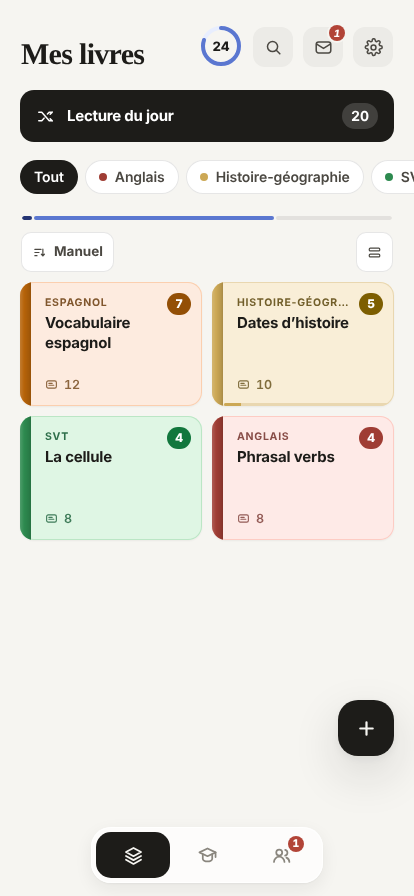
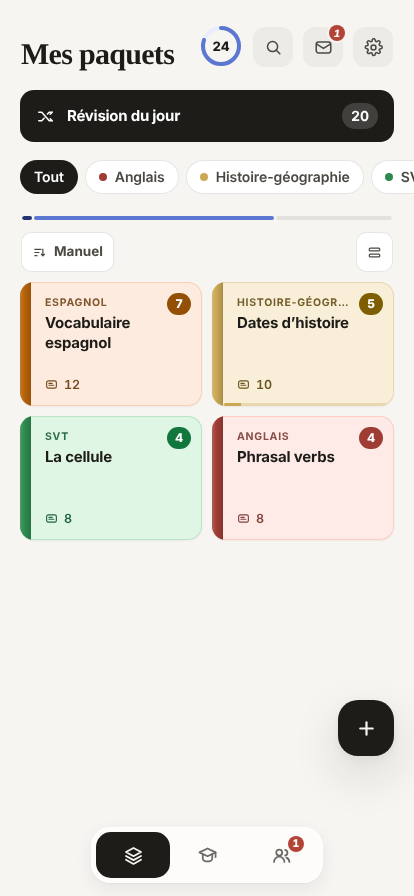
Le site pousse la vente : l'alternative à Anki et Quizlet ; affiches et images de partage refaites
La revue visuelle du site a trouvé deux choses fausses sur la vitrine. Les
affiches (les écrans de l'app montrés dans le héros et dans Campus) dataient
du 29 octobre : elles affichaient encore « Mes livres », le vocabulaire
retiré le 7 novembre. Et l'image de partage de /tarifs annonçait « dès
4,17 € par mois, Campus de 5 à 2 € HT par élève » : l'ancien prix, et un
tarif d'établissement que le site ne donne plus. L'outil qui les
photographie cliquait la barre par ses libellés (« Livres », « Mes
classes ») : il ne tournait plus depuis le changement de vocabulaire. Il
suit désormais les repères data-r, et tout est refait depuis la démo
(affiches, captures du manifeste, image de partage, images des pages).

Le positionnement, demandé : « L'alternative à Anki et Quizlet » en
troisième pastille du héros, dans la description de l'accueil, le titre, la
description et le chapeau du comparatif et la FAQ. En faits vérifiables —
le moteur FSRS qu'Anki utilise aussi, sans un réglage ; la simplicité de
Quizlet, sans publicité ; l'IA en plus —, jamais « n° 1 » ni « le
meilleur » dit comme un fait : une publicité comparative doit être
objective.

Preuve : npm run check (982 tests, budgets des pages tenus), les images
relues une à une.

Claude-Session: https://claude.ai/code/session_012dNsVM2soScftu5qZeP1Pj

diff --git a/tools/affiches.js b/tools/affiches.js
@@ -21,7 +21,7 @@ const chrome = process.env.PW_CHROMIUM || '/opt/pw-browsers/chromium';
 const AFFICHES = [
   { nom: 'pc', role: 'eleve', fenetre: { width: 1152, height: 720 }, densite: 1.25,
     async chemin(p) {
-      await p.locator('aside, nav, .rail').getByText('Livres', { exact: true }).first().click();
+      await p.locator('#rail [data-r="home"]').first().click();
       await p.getByText('La cellule', { exact: true }).first().click();
       await p.locator('[data-act="study"]:visible').first().click();
       await p.waitForTimeout(900);
@@ -31,7 +31,7 @@ const AFFICHES = [
     async chemin(p) { await p.click('[data-act="tab-home"]'); } },
   { nom: 'eleve', role: 'eleve', fenetre: { width: 1280, height: 800 }, densite: 1.125,
     async chemin(p) {
-      await p.locator('aside, nav, .rail').getByText('Mes classes', { exact: true }).first().click();
+      await p.locator('#rail [data-r="classes"]').first().click();
       await p.locator('[data-el="classe"]:visible').first().click();   // sa classe : devoirs, professeurs, camarades
       await p.waitForTimeout(600);
     } },
@@ -93,7 +93,7 @@ async function webp(page, png, qualite, echelle = 1) {
    La taille en pixels doit être celle que déclare le manifeste. */
 const CAPTURES = [
   { nom: 'wide', role: 'eleve', fenetre: { width: 1440, height: 900 }, densite: 1,
-    async chemin(p) { await p.locator('aside, nav, .rail').getByText('Livres', { exact: true }).first().click(); } },
+    async chemin(p) { await p.locator('#rail [data-r="home"]').first().click(); } },
   { nom: 'narrow', role: 'eleve', fenetre: { width: 414, height: 896 }, densite: 1, mobile: true,
     async chemin(p) { await p.click('[data-act="tab-home"]'); } }
 ];
@@ -105,12 +105,12 @@ const CAPTURES = [
    affiches déjà faites : rien à photographier, pas besoin de serveur).
      node tools/affiches.js pages */
 const OG_PAGES = {
-  'flashcards-ia': { sujet: 'Flashcards avec l’IA', titre: 'L’IA fait tes <em>flashcards.</em>', ligne: 'Un cours, une photo, un PDF :<br>un livre de flashcards en quelques secondes.', pc: 'pc', tel: 'mobile' },
-  'repetition-espacee': { sujet: 'Le guide', titre: 'La répétition <em>espacée.</em>', ligne: 'Revoir chaque page juste avant<br>de l’oublier, et la garder des mois.', courbe: true },
+  'flashcards-ia': { sujet: 'Flashcards avec l’IA', titre: 'L’IA fait tes <em>flashcards.</em>', ligne: 'Un cours, une photo, un PDF :<br>un paquet de flashcards en quelques secondes.', pc: 'pc', tel: 'mobile' },
+  'repetition-espacee': { sujet: 'Le guide', titre: 'La répétition <em>espacée.</em>', ligne: 'Revoir chaque carte juste avant<br>de l’oublier, et la garder des mois.', courbe: true },
   etablissements: { sujet: 'Mirandola Campus', titre: 'Tout l’établissement, <em>en deux codes.</em>', ligne: 'Collège, lycée, prépa :<br>ouvert en dix minutes.', pc: 'prof', tel: 'eleve-mobile' },
   professeurs: { sujet: 'Pour les professeurs', titre: 'Vos élèves révisent. <em>Vous le voyez.</em>', ligne: 'Devoirs suivis, ce qui bloque,<br>défis en direct au tableau.', pc: 'prof', tel: 'prof-mobile' },
-  tarifs: { sujet: 'Tarifs', titre: 'Gratuit pour <em>réviser.</em>', ligne: 'Mirandola+ dès 4,17 € par mois.<br>Campus de 5 à 2 € HT par élève et par an.', pc: 'pc', tel: 'mobile' },
-  'anki-quizlet': { sujet: 'Le comparatif', titre: 'Anki, Quizlet <em>ou Mirandola ?</em>', ligne: 'Trois apps de flashcards,<br>et comment passer de l’une à l’autre.', pc: 'pc', tel: 'mobile' },
+  tarifs: { sujet: 'Tarifs', titre: 'Gratuit pour <em>réviser.</em>', ligne: 'Mirandola+ dès 3,75 € par mois, 7 jours gratuits.<br>Mirandola Campus sur devis.', pc: 'pc', tel: 'mobile' },
+  'anki-quizlet': { sujet: 'Le comparatif', titre: 'L’alternative à <em>Anki et Quizlet.</em>', ligne: 'Le moteur d’Anki sans réglage,<br>la simplicité de Quizlet, l’IA en plus.', pc: 'pc', tel: 'mobile' },
   'a-propos': { sujet: 'Le nom', titre: 'Pourquoi <em>Mirandola ?</em>', ligne: 'D’après Pic de la Mirandole,<br>l’érudit à la mémoire prodigieuse.', logo: true },
   academie: { sujet: 'Mirandola Academy', titre: 'Tout Mirandola, en <em>vidéos courtes.</em>', ligne: 'Élève, professeur, référent :<br>un tuto par geste, téléphone et ordinateur.', pc: 'referent', tel: 'eleve-mobile' },
   moteur: { sujet: 'Memory Engine · FSRS-6', titre: 'Le moteur, <em>formule par formule.</em>', ligne: 'Trois variables, vingt et un paramètres,<br>une courbe. Sans rien arrondir.', moteur: true }
@@ -269,7 +269,7 @@ await og.setContent(`<!doctype html><html lang="fr"><head><meta charset="utf-8">
   <div class="g"><div class="m">${logo}<span>Mirandola</span></div>
     <div class="p"><i></i>Testé et validé en prépa · boosté à l’IA</div>
     <h1>Révise moins.<br>Retiens <em>tout.</em></h1>
-    <p class="s">L’IA fait de ton cours un livre<br>de flashcards. Mirandola te repose chaque<br>page juste avant que tu l’oublies.</p></div>
+    <p class="s">L’IA fait de ton cours un paquet<br>de flashcards. Mirandola te repose chaque<br>carte juste avant que tu l’oublies.</p></div>
   <div class="pc"><img src="${dataUri(SORTIE + 'pc.webp', 'image/webp')}"></div><div class="socle"></div>
   <div class="tel"><img src="${dataUri(SORTIE + 'mobile.webp', 'image/webp')}"><i></i></div>
   <div class="f"><small>Histoire</small><b>14 juillet 1789</b></div>

diff --git a/index.html b/index.html
@@ -26,7 +26,7 @@
 </script>
 <meta name="viewport" content="width=device-width,initial-scale=1,viewport-fit=cover">
 <title>Mirandola : flashcards IA et répétition espacée pour réviser</title>
-<meta name="description" content="L’IA fait de ton cours des flashcards, Mirandola te les repose juste avant l’oubli, avec l’algorithme FSRS. Gratuit, hors ligne, pour élèves, profs et lycées.">
+<meta name="description" content="Flashcards IA et répétition espacée : le moteur d’Anki sans réglage, la simplicité de Quizlet, l’IA en plus. Gratuit, sans publicité, même hors ligne.">
 <link rel="canonical" href="https://mirandola.fr/">
 <link rel="alternate" hreflang="fr" href="https://mirandola.fr/">
 <link rel="alternate" hreflang="x-default" href="https://mirandola.fr/">
@@ -242,6 +242,7 @@
       <ul class="pastilles">
         <li class="pastille"><svg class="ic" aria-hidden="true"><use href="#i-ecole"/></svg>Testé et validé en prépa</li>
         <li class="pastille pastille-ia"><svg class="ic" aria-hidden="true"><use href="#i-etincelle"/></svg><span>Boosté à l’IA</span></li>
+        <li class="pastille"><svg class="ic" aria-hidden="true"><use href="#i-fleche"/></svg><a href="/anki-quizlet">L’alternative à Anki et Quizlet</a></li>
       </ul>
       <h1 id="titre" class="titre-heros"><span class="mot">Révise</span> <span class="mot">moins.</span> <span class="mot">Retiens</span> <span class="mot">tout.</span></h1>
       <p class="chapeau">L’IA fait de ton cours un paquet de flashcards. Mirandola te repose chaque carte juste avant que tu l’oublies.</p>
@@ -493,7 +494,7 @@
       <details class="rv"><summary>Ça marche sans connexion&#8239;?</summary><p>Oui. Tu révises dans le métro ou en avion, et tout se synchronise dès que le réseau revient.</p></details>
       <details class="rv"><summary>Je peux reprendre mes anciennes flashcards&#8239;?</summary><p>Oui. Colle-les ou importe le fichier, un CSV marche aussi. Mirandola en fait un paquet en quelques secondes.</p></details>
       <details class="rv"><summary>Comment équiper mon établissement&#8239;?</summary><p>Avec Mirandola Campus, ouvert en dix minutes à tous vos élèves et professeurs. Demandez une démo&#8239;: 30 jours gratuits pour 60 élèves, sans engagement. Ensuite, un tarif fait pour votre établissement, qui baisse par élève quand il grandit&#8239;: votre devis accompagne la démo.</p></details>
-      <details class="rv"><summary>Mirandola ou Anki, Quizlet&#8239;?</summary><p>Mirandola fait tourner FSRS, l’algorithme libre de répétition espacée qu’Anki utilise aussi, avec les mêmes paramètres par défaut et sans un seul réglage à faire. Comme Quizlet, tout se fait au doigt, sur téléphone et sur ordinateur. Tes paquets Anki et tes listes Quizlet s’importent en texte&#8239;: colle-les, c’est un paquet. Le détail est dans <a href="/anki-quizlet">notre comparatif</a>.</p></details>
+      <details class="rv"><summary>Mirandola ou Anki, Quizlet&#8239;?</summary><p>Mirandola réunit le meilleur des deux, et y ajoute l’IA. Le moteur d’Anki&#8239;: FSRS, l’algorithme libre de répétition espacée qu’Anki utilise aussi, avec les mêmes paramètres par défaut, sans un seul réglage à faire. La simplicité de Quizlet&#8239;: tout se fait au doigt, sur téléphone et sur ordinateur, sans publicité. Tes paquets Anki et tes listes Quizlet s’importent en texte&#8239;: colle-les, c’est un paquet. Le détail est dans <a href="/anki-quizlet">notre comparatif</a>.</p></details>
       <details class="rv"><summary>Puis-je résilier quand je veux&#8239;?</summary><p>Oui, en un geste depuis l’app&#8239;: Mirandola+, puis «&nbsp;Résilier l’abonnement&nbsp;». Au mois, rien ne t’engage&#8239;: Mirandola+ reste ouvert jusqu’à la fin du mois payé. À l’année, payée d’avance, il reste ouvert jusqu’au bout de l’année, puis ne se renouvelle pas.</p></details>
       <details class="rv"><summary>Je donne des cours particuliers&#8239;: combien ça coûte&#8239;?</summary><p>Ton espace professeur est gratuit&#8239;: ton code, tes classes, les devoirs suivis et les défis en direct, pour toi et tes élèves. Mirandola+ pour toi, au prix d’un élève, t’ouvre l’IA sans compter pour préparer tes paquets. Pour que tes élèves aient aussi Mirandola+&#8239;: un tarif selon leur nombre, sur devis.</p></details>
       <details class="rv"><summary>Où vont mes données&#8239;?</summary><p>Elles sont hébergées dans l’Union européenne. Mirandola n’affiche aucune publicité et n’utilise aucun traceur.</p></details>

diff --git a/src/site/pages.js b/src/site/pages.js
@@ -28,7 +28,7 @@ export const PAGES = [
   {
     chemin: '/', fichier: 'index.html', nom: 'Accueil',
     titre: 'Mirandola : flashcards IA et répétition espacée pour réviser',
-    description: 'L’IA fait de ton cours des flashcards, Mirandola te les repose juste avant l’oubli, avec l’algorithme FSRS. Gratuit, hors ligne, pour élèves, profs et lycées.',
+    description: 'Flashcards IA et répétition espacée : le moteur d’Anki sans réglage, la simplicité de Quizlet, l’IA en plus. Gratuit, sans publicité, même hors ligne.',
     maj: '2026-11-05', image: '/site/og.jpg',
     imageAlt: 'Mirandola, l’app de révision : son logo, l’app sur ordinateur et téléphone, et une flashcard'
   },
@@ -83,9 +83,9 @@ export const PAGES = [
   },
   {
     chemin: '/anki-quizlet', fichier: 'anki-quizlet.html', nom: 'Anki, Quizlet ou Mirandola',
-    titre: 'Anki, Quizlet ou Mirandola : quelle app de flashcards ?',
-    description: 'Anki, Quizlet, Mirandola : ce que fait chaque app de flashcards, pour qui, et à quel prix. Et comment reprendre tes paquets Anki et tes listes Quizlet.',
-    maj: '2026-11-05', image: '/site/og/anki-quizlet.jpg',
+    titre: 'Alternative à Anki et Quizlet : Mirandola, sans réglage',
+    description: 'Mirandola, l’alternative à Anki et Quizlet : le moteur FSRS d’Anki sans un réglage, la simplicité de Quizlet sans publicité, et l’IA. Le comparatif complet.',
+    maj: '2026-11-14', image: '/site/og/anki-quizlet.jpg',
     imageAlt: 'Trois apps de flashcards comparées : Anki, Quizlet et Mirandola'
   },
   {

diff --git a/anki-quizlet.html b/anki-quizlet.html
@@ -18,7 +18,7 @@
         <!-- @ariane -->
         <p class="surtitre">Le comparatif</p>
         <h1 id="titre" class="p-titre">Anki, Quizlet ou Mirandola&#8239;: <em>laquelle</em> choisir&#8239;?</h1>
-        <p class="p-chapeau">Trois apps de flashcards, et comment passer de l’une à l’autre.</p>
+        <p class="p-chapeau">Le moteur d’Anki sans un réglage, la simplicité de Quizlet sans publicité, l’IA en plus&#8239;: Mirandola. Et comment y passer en une minute.</p>
       </div>
       <!-- En deux mots : trois profils, en éventail. -->
       <div class="p-visuel trio">
@@ -37,8 +37,8 @@
         <article class="trio-c nous">
           <span class="trio-dessin logo" aria-hidden="true"><img src="/site/logo.svg" alt="" width="34" height="36"></span>
           <h2>Mirandola</h2>
-          <p>FSRS sans réglage, et l’IA.</p>
-          <span class="trio-pour">Pour retenir des mois</span>
+          <p>Le moteur d’Anki sans réglage, et l’IA.</p>
+          <span class="trio-pour">Pour tout retenir, simplement</span>
         </article>
       </div>
     </div>

diff --git a/CLAUDE.md b/CLAUDE.md
@@ -110,7 +110,20 @@ l'air de marcher ».
     démo sans compte, à 10 h du matin (`node tools/affiches.js`, sur un
     `vite preview` au port 4190 ; des noms d'affiches pour n'en refaire que
     quelques-unes ; il marque les tutos de la démo comme vus, la Mirandola
-    Academy aussi). Dans Mirandola Campus, l'ordinateur de chaque rôle a, pour
+    Academy aussi ; il clique les repères `data-r` de la barre, jamais ses
+    libellés : écrit sur « Livres » et « Mes classes », il ne tournait plus
+    depuis le vocabulaire du 2026-11-07, et les affiches du site montraient
+    encore « Mes livres » — refaites le 2026-11-14, avec les images de
+    partage, dont celle des tarifs qui annonçait l'ancien prix). **Le
+    positionnement** (2026-11-14, demandé : « mets-moi le plus en avant, la
+    meilleure alternative du marché ») : « L'alternative à Anki et Quizlet »
+    en troisième pastille du héros (un lien vers le comparatif), dans la
+    description de l'accueil, le titre, la description et le chapeau de
+    `/anki-quizlet` et la FAQ — toujours en faits vérifiables (le moteur
+    FSRS qu'Anki utilise aussi, sans réglage ; sans publicité ; l'IA), jamais
+    « n° 1 » ni « le meilleur » dit comme un fait : une publicité comparative
+    doit être objective et vérifiable, et `test/site.test.js` refuse déjà
+    « le meilleur moteur au monde ». Dans Mirandola Campus, l'ordinateur de chaque rôle a, pour
     l'élève et le professeur, le même espace au téléphone posé contre lui
     (`#tel-campus`, écrans `data-onglet`, rangé pour le référent :
     `onglets()` de site.js, depuis le 2026-10-27). **Le même logo est celui de l'app**

diff --git a/PROGRESS.md b/PROGRESS.md
@@ -19,7 +19,17 @@
 CURSEUR   M08.T3 (hors ligne complet) — M05.T4 se lit dans l'onglet Santé ; M22.T5 attend tes secrets GitHub (docs/FIABILITE.md)
 PHASE     P0 — lancement B2C
 FAIT      54 / 148
-DERNIER   2026-11-13 · L'IA choisit le modèle le moins cher qui fait
+DERNIER   2026-11-14 · La grande vérification avant la vente. Le
+          premier passage : un paquet neuf se propose en entier, 20 neuves
+          par jour ensuite. Les devis : émis par l'éditeur, acceptés en
+          ligne par le référent, la licence ouverte et la facture émise
+          d'un geste (migration 20261114090000, PAS ENCORE APPLIQUÉE : elle
+          attend ta confirmation ; prouvée 46/46 sur base vierge) ;
+          docs/DOCUMENTS.md (circuit de vente, relances, modèles, RGPD). Un
+          test à retardement de la purge corrigé. Le site : « l'alternative
+          à Anki et Quizlet », les affiches et images de partage refaites
+          (elles montraient l'ancien vocabulaire et un ancien prix). Avant :
+          2026-11-13 · L'IA choisit le modèle le moins cher qui fait
           la tâche : Claude Haiku 5.5 pour un texte, un PDF, une retouche ;
           Sonnet pour des photos, un examen, une copie, des cartes de
           mémoire ; une réponse vide ou refusée de Haiku repart sur Sonnet ;
